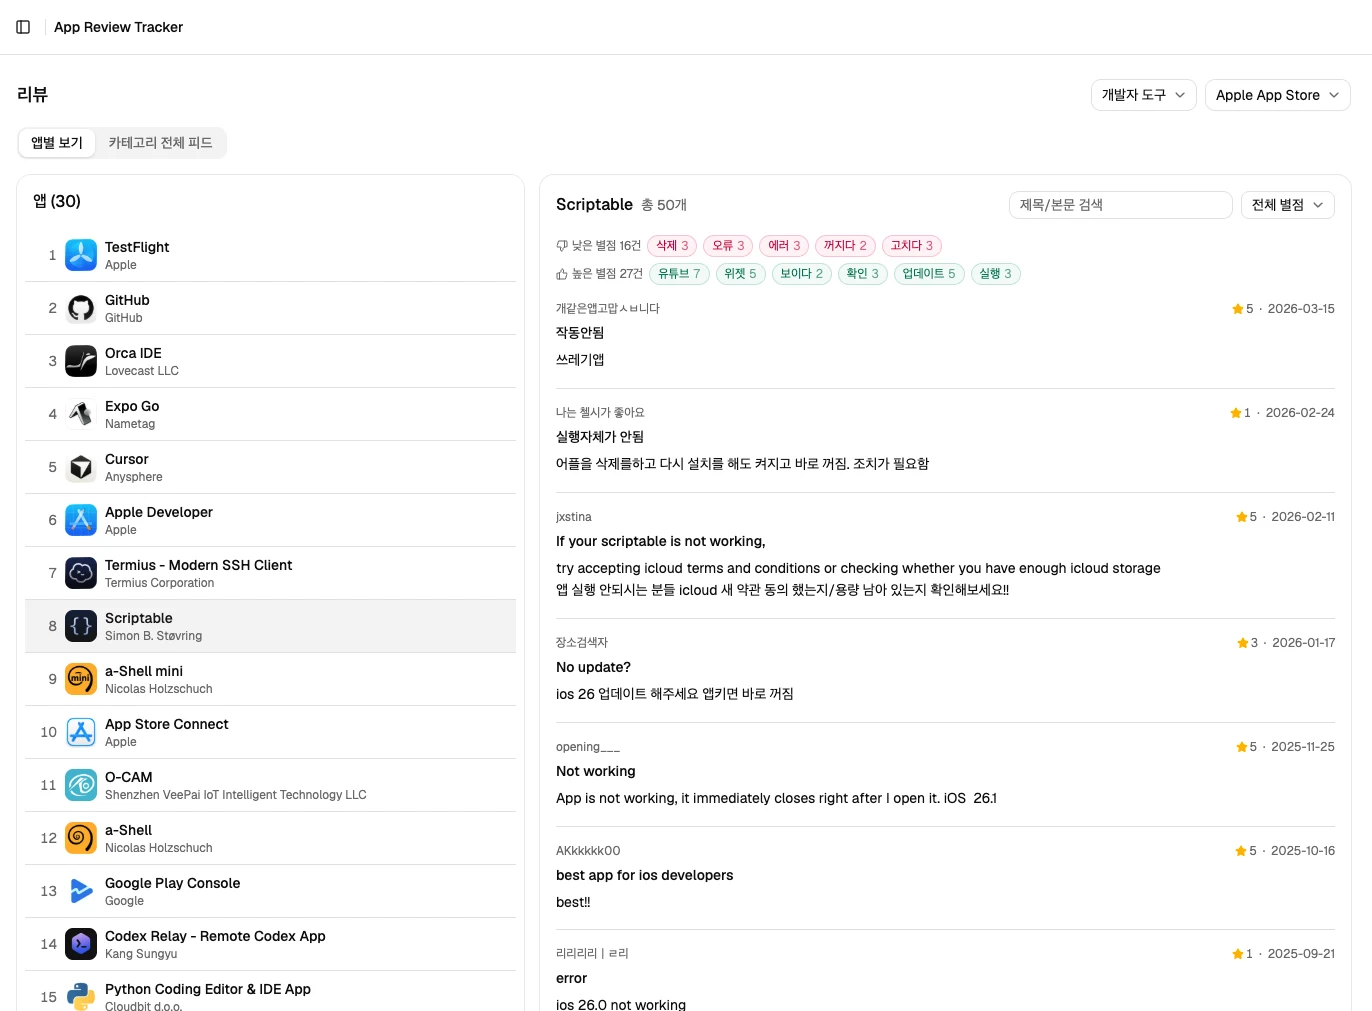
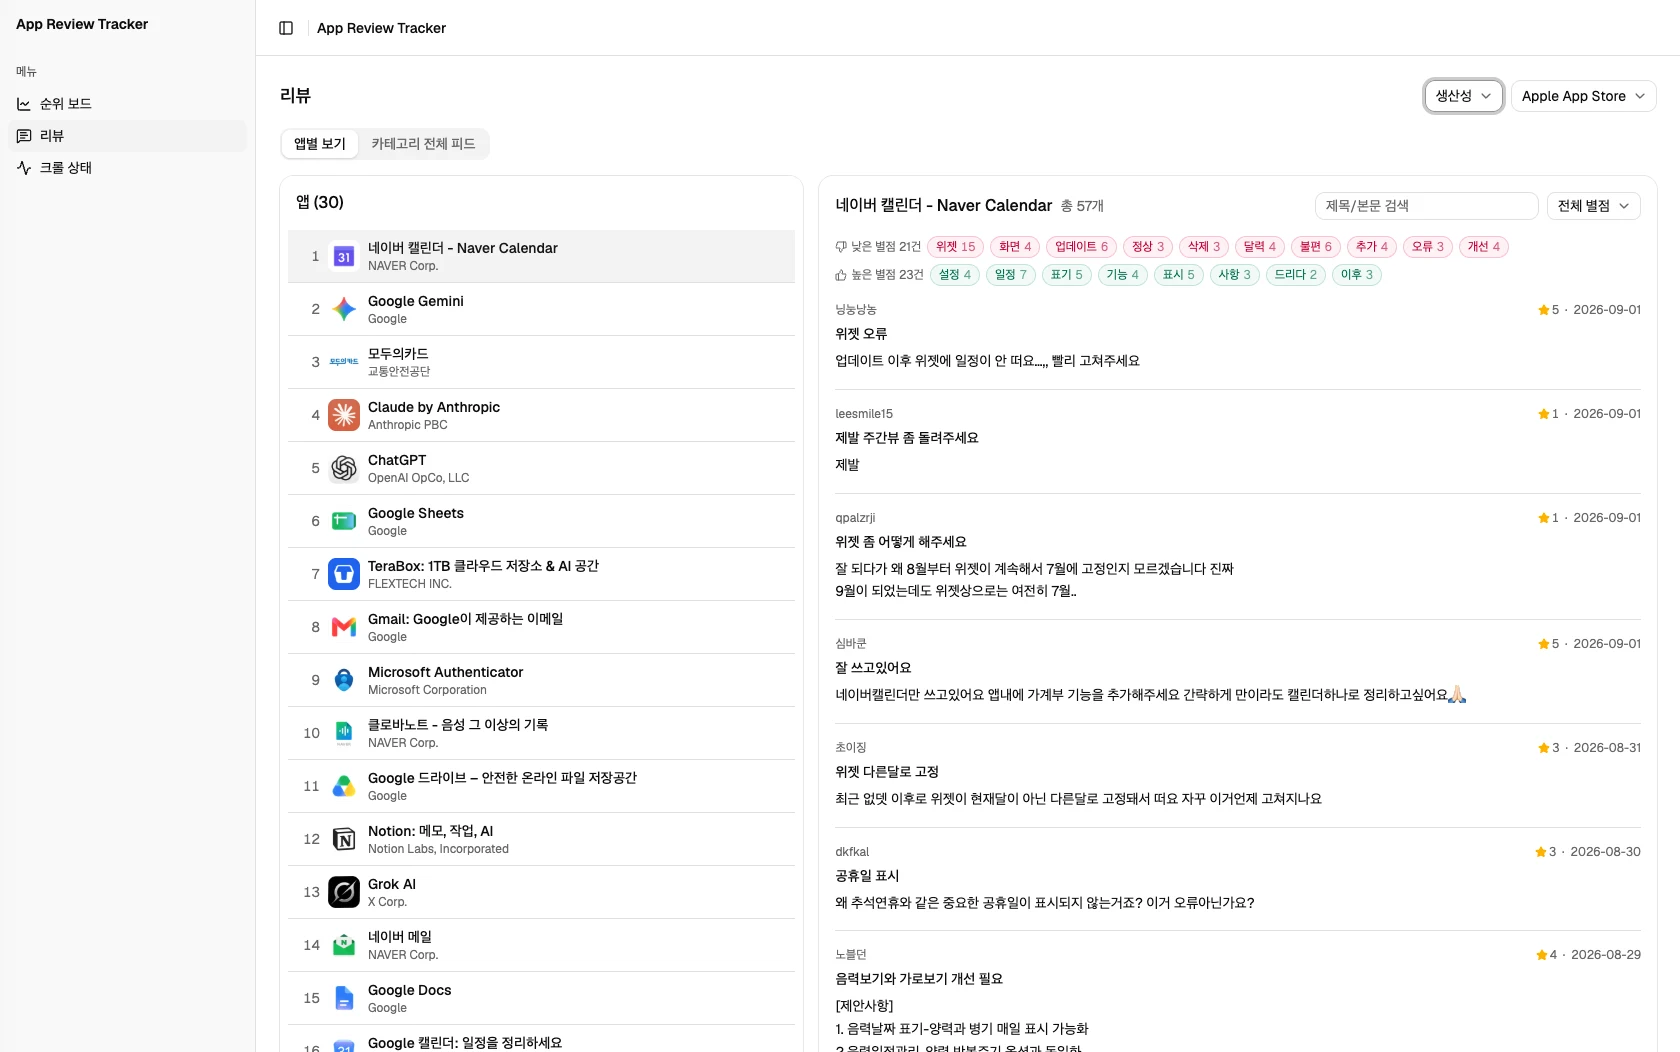
fix(portfolio): 모바일 카드 순서와 라이트박스 닫기 버튼 가독성 수정 (QA)
홈 Works 카드 순서
- 모바일에서 순서가 01 → 04 → 06 → 09 → 03 → 05 → 08 → 10으로 뒤섞였다.
  배열을 짝수/홀수 인덱스로 나눠 좌·우 컬럼에 따로 렌더링하는데, 1열이 되는
  구간에서 두 컬럼이 세로로 이어붙기 때문이다
- 순서대로 한 번만 깔고, 2열이 되는 구간에서만 짝수 번째 카드에 상단 여백을
  줘 계단식 배치를 CSS로 처리한다. DOM 순서와 화면 순서가 같아진다
- WorksSection.test.tsx의 기대값이 좌우 분할 순서(ART → KTI → YogaEditor)로
  고정돼 있어 이 버그를 통과시키고 있었다. 배열 순서(ART → YogaEditor → KTI)로
  바로잡았다 — 테스트가 실제로 회귀를 잡아냈다
- 검증: 모바일 390px에서 FEATURED_SLUGS와 동일한 순서로 렌더링됨을 확인

라이트박스 닫기 버튼
- 이미지가 화면을 꽉 채우면 테두리만 있는 버튼이 밝은 화면 위에 얹혀 묻혔다.
  배경(bg-black/70 + backdrop-blur)과 텍스트 대비를 올렸다

App Review Tracker 대표이미지
- 사이드바를 포함한 넓은 뷰로 3장 교체. 비율이 16:10이라 프레임에 여백 없이
  들어간다 (WebP q88, 68·85·68KB)

Claude-Session: https://claude.ai/code/session_013XuYq2sitcUhmvEbq2NPmo

diff --git a/apps/portfolio/src/features/home/WorksSection.tsx b/apps/portfolio/src/features/home/WorksSection.tsx
@@ -66,9 +66,6 @@ function ProjectCard({ project, delay = 0, aspectClass = 'aspect-[16/10]' }: Car
 export default function WorksSection({ projects }: { projects: ProjectCard[] }) {
   const setCursorType = useCursorStore((s) => s.setType);
 
-  const leftColProjects = projects.filter((_, i) => i % 2 === 0);
-  const rightColProjects = projects.filter((_, i) => i % 2 !== 0);
-
   return (
     <section data-testid='works-section' className='relative flex w-full flex-col pt-16'>
       <SectionLabel
@@ -115,43 +112,17 @@ export default function WorksSection({ projects }: { projects: ProjectCard[] }) 
           </div>
 
           {/* Right Column: 자연 스크롤. 시작 시 좌측 텍스트와 균형을 맞추기 위해 상단 여백 추가 */}
-          <div className='grid w-full grid-cols-1 gap-6 md:grid-cols-2 lg:w-7/12 lg:grid-cols-1 lg:gap-8 lg:pt-24 xl:grid-cols-2'>
-            {/* Col 1 */}
-            <div className='flex flex-col gap-12'>
-              {leftColProjects.map((p, i) => (
-                <ProjectCard
-                  key={p.slug}
-                  project={p}
-                  delay={i * 0.1}
-                  aspectClass='aspect-[16/10]'
-                />
-              ))}
-            </div>
-            {/* Col 2 (Staggered) */}
-            <div className='flex flex-col gap-12 pt-0 md:pt-16 lg:pt-0 xl:pt-16'>
-              {rightColProjects.map((p, i) => (
-                <ProjectCard
-                  key={p.slug}
-                  project={p}
-                  delay={0.15 + i * 0.1}
-                  aspectClass='aspect-[16/10]'
-                />
-              ))}
-            </div>
-
-            {/* 'See All Works' Button (모바일/태블릿 전용 하단 고정) */}
-            <div className='pointer-events-none sticky bottom-4 z-10 col-span-1 flex justify-center pt-16 pb-8 md:col-span-2 lg:hidden'>
-              <div className='pointer-events-auto'>
-                <RollingLink
-                  href='/work'
-                  onMouseEnter={() => setCursorType('pointer')}
-                  onMouseLeave={() => setCursorType('default')}
-                  text='See All Works'
-                  textClassName='font-bold tracking-tight'
-                  className='inline-block rounded-full border-2 border-white bg-neutral-950/85 px-5 py-2 text-[16px] tracking-widest uppercase backdrop-blur-md transition-all duration-300 hover:bg-white hover:text-black md:text-[23px]'
-                />
+          {/*
+            좌/우 컬럼으로 배열을 나눠 렌더링하면 1열이 되는 모바일에서 두 컬럼이 세로로
+            이어붙어 순서가 01 → 04 → 06 → 09 → 03 …으로 뒤섞인다. 순서대로 한 번만 깔고,
+            2열이 되는 구간에서만 짝수 번째 카드를 내려 계단식 배치를 만든다.
+          */}
+          <div className='grid w-full grid-cols-1 gap-12 md:grid-cols-2 md:gap-8 lg:w-7/12 lg:grid-cols-1 lg:gap-12 lg:pt-24 xl:grid-cols-2 xl:gap-8'>
+            {projects.map((p, i) => (
+              <div key={p.slug} className={i % 2 === 1 ? 'md:pt-16 lg:pt-0 xl:pt-16' : undefined}>
+                <ProjectCard project={p} delay={i * 0.1} aspectClass='aspect-[16/10]' />
               </div>
-            </div>
+            ))}
           </div>
         </div>
       </div>

diff --git a/apps/portfolio/src/features/work/detail/ImageLightbox.tsx b/apps/portfolio/src/features/work/detail/ImageLightbox.tsx
@@ -153,7 +153,8 @@ export default function ImageLightbox({
             type='button'
             onClick={onClose}
             aria-label='닫기'
-            className='absolute top-4 right-4 z-20 rounded-full border border-white/20 px-4 py-2 text-xs tracking-widest text-white/60 uppercase transition-colors duration-200 hover:border-white/50 hover:text-white md:top-8 md:right-8'
+            // 이미지가 화면을 꽉 채우면 버튼이 밝은 화면 위에 얹혀 묻힌다 — 자체 배경을 준다
+            className='absolute top-4 right-4 z-20 rounded-full border border-white/30 bg-black/70 px-4 py-2 text-xs tracking-widest text-white/80 uppercase backdrop-blur-sm transition-colors duration-200 hover:border-white/60 hover:bg-black/90 hover:text-white md:top-8 md:right-8'
           >
             Close (ESC)
           </button>

diff --git a/apps/portfolio/src/features/home/WorksSection.test.tsx b/apps/portfolio/src/features/home/WorksSection.test.tsx
@@ -109,8 +109,9 @@ describe('WorksSection', () => {
       .map((link) => link.getAttribute('href'))
       .filter((href) => href !== '/work');
 
-    // 좌/우 2열 배치(짝수 인덱스 좌, 홀수 인덱스 우) 순서 기준
-    expect(cardLinks).toEqual(['/work/app-review-tracker', '/work/kti', '/work/yoga-editor']);
+    // DOM 순서는 전달받은 배열 순서와 같아야 한다. 2열 배치는 CSS로만 처리하므로
+    // 1열이 되는 모바일에서도 순서가 뒤섞이지 않는다.
+    expect(cardLinks).toEqual(['/work/app-review-tracker', '/work/yoga-editor', '/work/kti']);
     expect(cardLinks).not.toContain('#');
   });
 });
